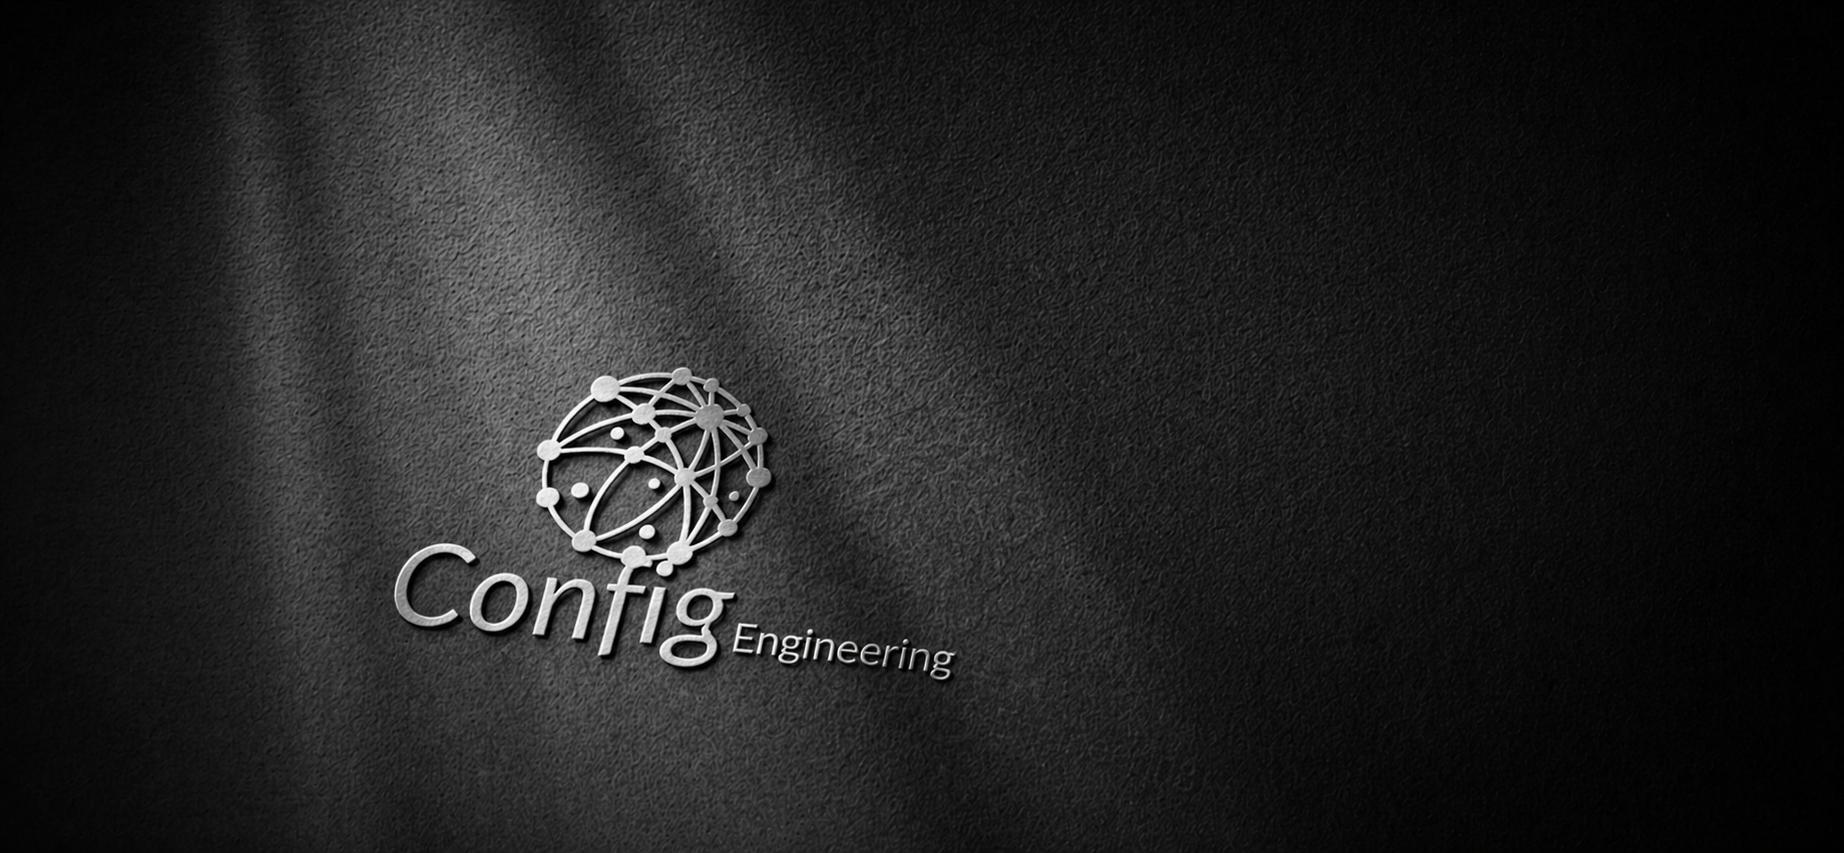
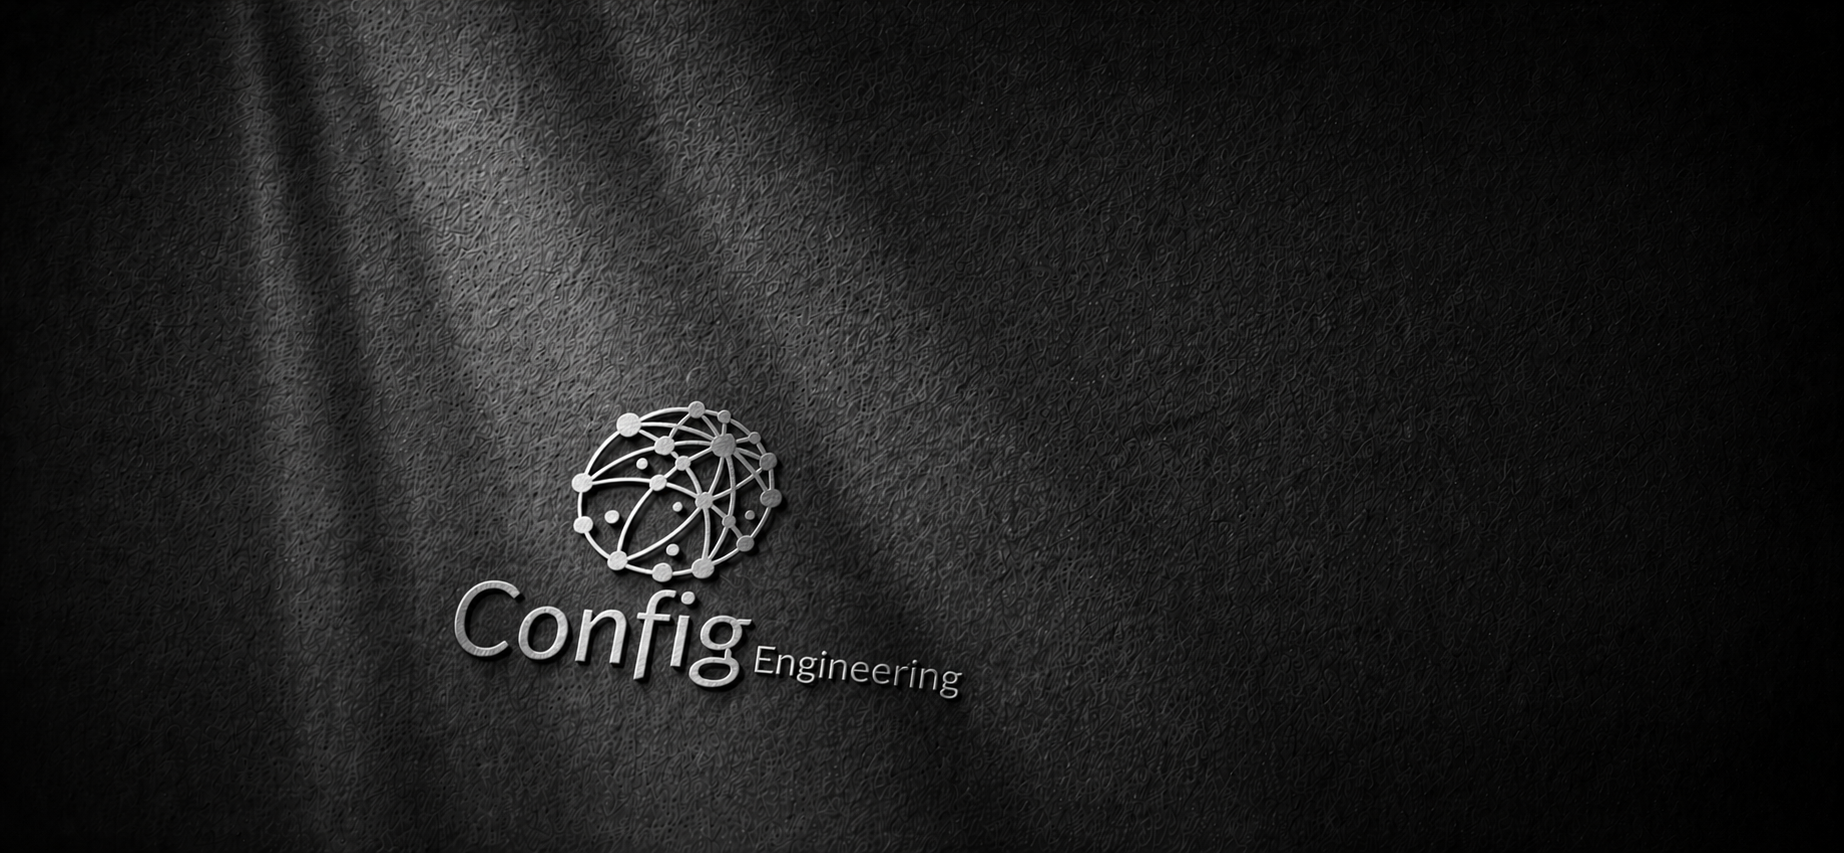
fix quotation layout + force black buttons + fix dropdown

diff --git a/frontend/src/pages/QuotationBuilderPage.jsx b/frontend/src/pages/QuotationBuilderPage.jsx
@@ -254,7 +254,7 @@ export default function QuotationBuilderPage() {
         <div className="space-y-3">
           {items.map((item, index) => (
             <div key={`quotation-item-${index}`} className="q-row">
-              <div className="relative">
+              <div className="q-item relative">
                 <input
                   className="input-field"
                   value={itemSearch[index] ?? item.description}
@@ -262,12 +262,12 @@ export default function QuotationBuilderPage() {
                   placeholder="Type item name (e.g. cam)"
                 />
                 {Array.isArray(itemSuggestions[index]) && itemSuggestions[index].length > 0 ? (
-                  <div className="autocomplete-dropdown absolute left-0 right-0 top-[calc(100%+4px)] z-20">
+                  <div className="autocomplete-dropdown absolute left-0 right-0 top-[calc(100%+4px)] z-20 bg-white text-black">
                     {itemSuggestions[index].map((suggestion) => (
                       <button
                         key={suggestion._id}
                         type="button"
-                        className={`autocomplete-item ${item.productId === suggestion._id ? "active" : ""}`}
+                        className={`autocomplete-item hover:bg-gray-100 text-black ${item.productId === suggestion._id ? "active" : ""}`}
                         onClick={() => handleProductSelect(index, suggestion)}
                       >
                         <span className="font-medium text-slate-800">{suggestion.name}</span>
@@ -277,32 +277,28 @@ export default function QuotationBuilderPage() {
                   </div>
                 ) : null}
               </div>
-              <input type="number" min="0" className="input-field text-center" value={item.quantity} onChange={(event) => updateItem(index, "quantity", event.target.value)} placeholder="Qty" />
-              <div className="space-y-2">
-                <input
-                  type="number"
-                  min="0"
-                  className="input-field price numeric"
-                  value={item.unitPrice}
-                  onChange={(event) => updateItem(index, "unitPrice", event.target.value)}
-                  placeholder="Unit price"
-                  readOnly={Boolean(item.lockPrice)}
-                />
-                <label className="flex items-center gap-2 text-xs text-slate-500">
-                  <input
-                    type="checkbox"
-                    checked={Boolean(item.lockPrice)}
-                    onChange={(event) => updateItem(index, "lockPrice", event.target.checked)}
-                  />
-                  Lock price
-                </label>
-              </div>
               <input
-                className="input-field total total-field numeric"
-                value={formatCurrency(calculatedItems[index]?.total)}
-                readOnly
+                type="number"
+                min="0"
+                className="q-qty input-field text-center"
+                value={item.quantity}
+                onChange={(event) => updateItem(index, "quantity", event.target.value)}
+                placeholder="Qty"
               />
-              <button type="button" className="delete-btn text-slate-500 hover:text-rose-600" onClick={() => removeItem(index)} aria-label="Remove line">
+              <input
+                type="number"
+                min="0"
+                className="q-price input-field price numeric"
+                value={item.unitPrice}
+                onChange={(event) => updateItem(index, "unitPrice", event.target.value)}
+                placeholder="Unit price"
+                readOnly={Boolean(item.lockPrice)}
+              />
+              <div className="q-total total-field numeric">
+                {formatCurrency(calculatedItems[index]?.total)}
+              </div>
+
+              <button type="button" className="q-delete delete-btn text-slate-500 hover:text-rose-600" onClick={() => removeItem(index)} aria-label="Remove line">
                 <Trash2 size={16} />
               </button>
             </div>

diff --git a/frontend/src/index.css b/frontend/src/index.css
@@ -744,13 +744,13 @@ a.btn-approve {
 
 .q-row {
   display: grid;
-  grid-template-columns: 1fr 70px 140px 160px 40px;
+  grid-template-columns: 1fr 80px 140px 140px 40px;
   gap: 12px;
   align-items: center;
 }
 
 .q-row input {
-  height: 38px;
+  height: 40px;
   font-size: 14px;
 }
 
@@ -758,6 +758,13 @@ a.btn-approve {
 .q-row .total {
   text-align: right;
   font-family: monospace;
+}
+
+.q-total {
+  text-align: right;
+  padding: 10px;
+  background: #f9fafb;
+  border-radius: 8px;
 }
 
 .delete-btn {
@@ -1132,4 +1139,13 @@ button,
 
 button:hover {
   background: #000000 !important;
+}
+
+button,
+.btn {
+  color: #ffffff !important;
+}
+
+button * {
+  color: #ffffff !important;
 }

diff --git a/frontend/src/pages/CreateProjectPage.jsx b/frontend/src/pages/CreateProjectPage.jsx
@@ -170,7 +170,7 @@ export default function CreateProjectPage() {
                 onClick={() => setCctvType("Analog")}
                 className={`h-8 px-3 text-sm rounded-md border ${
                   cctvType === "Analog"
-                    ? "bg-indigo-600 text-white border-indigo-600"
+                    ? "bg-black text-white border-black"
                     : "border-slate-300 text-[#425466] bg-white hover:bg-slate-50"
                 }`}
               >
@@ -181,7 +181,7 @@ export default function CreateProjectPage() {
                 onClick={() => setCctvType("IP")}
                 className={`h-8 px-3 text-sm rounded-md border ${
                   cctvType === "IP"
-                    ? "bg-indigo-600 text-white border-indigo-600"
+                    ? "bg-black text-white border-black"
                     : "border-slate-300 text-[#425466] bg-white hover:bg-slate-50"
                 }`}
               >
@@ -196,7 +196,7 @@ export default function CreateProjectPage() {
         <button
           type="submit"
           disabled={createProject.isPending || !canSubmit || clientsLoading}
-          className="rounded-md bg-[#635bff] text-white px-3 py-1.5 text-sm font-medium hover:opacity-90 transition disabled:opacity-50 disabled:pointer-events-none"
+          className="rounded-md bg-black text-white px-3 py-1.5 text-sm font-medium hover:opacity-90 transition disabled:opacity-50 disabled:pointer-events-none"
         >
           {createProject.isPending ? "Saving…" : "Create project & continue to quotation"}
         </button>